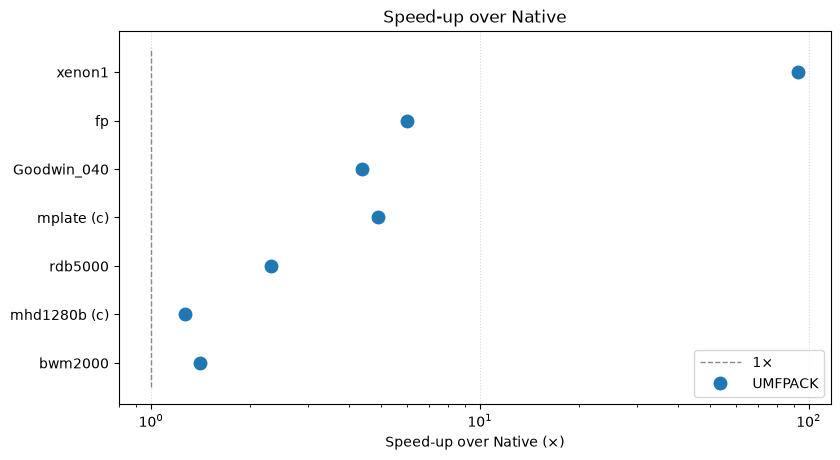
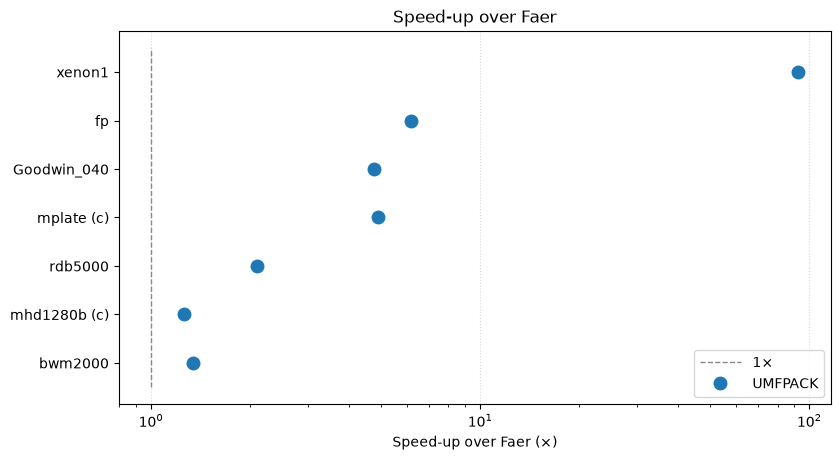
Update README benchmark results for Faer and bump version to 3.1.0

diff --git a/src/sparse/faer/solver.rs b/src/sparse/faer/solver.rs
@@ -12,10 +12,11 @@
 //!
 //! The counts are those of the Cholesky factor of `AᵀA`, so `ratio` grows with
 //! the average column density. A supernode is profitable once its columns are
-//! dense, and `LuMethod::auto()` uses `40.0` while `russell_sparse` passes `1.0`
-//! for the same choice: the two measure different problem classes, so the number
-//! is a caller-side decision rather than a constant of the kernel. It is a
-//! heuristic; `bench_sparse_lu` is the evidence.
+//! dense and its front size stays small; `LuMethod::auto()` uses `40.0`, while
+//! both `LuMethod::default()` and `russell_sparse` (from 5.5.0) default to
+//! `Simplicial` so large SuiteSparse fronts do not pay for the contribution-block-free
+//! supernodal update. The threshold is a caller-side decision rather than a
+//! constant of the kernel; `bench_sparse_lu` is the evidence.
 //!
 //! Neither method is the recommended one in general. Measured on a 192-dof
 //! lattice with three dofs per node (fill 2.96): the supernodal path factorizes

diff --git a/README.md b/README.md
@@ -216,22 +216,26 @@ headers to local modules lives in the module documentation under `src/sparse/amg
 
 ## Performance
 
-The direct solver of [`russell_sparse`](https://crates.io/crates/russell_sparse) — `Genie::Direct`
-from 5.0, `Native` in 4.x, which is where these numbers come from — is the sparse LU in this crate.
-The table below compares it with UMFPACK on the benchmark matrices that completed; the data is from
+The `Faer` solver of [`russell_sparse`](https://crates.io/crates/russell_sparse) — `Genie::Faer`
+from 5.5 (`Genie::Direct` in 5.0–5.4, `Native` in 4.x) — is the `sparse::faer` LU in this crate,
+using the simplicial path (`LuMethod::Simplicial`) by default. Note that `SupernodalLu` omits
+contribution blocks between supernodes and instead updates each front directly from the stored
+`L` and `U` columns, so large fronts are slower than simplicial (and slower than upstream `faer`).
+The table below compares the default simplicial path with UMFPACK on the SuiteSparse benchmark
+matrices that completed; the data is from
 [benchmark-russell](https://github.com/cpmech/benchmark-russell).
 
-| Matrix | NROW | NNZ | Direct | UMFPACK | UMFPACK / Direct |
+| Matrix | NROW | NNZ | Faer | UMFPACK | UMFPACK / Faer |
 | --- | ---: | ---: | ---: | ---: | ---: |
-| bwm2000 | 2,000 | 7,996 | 1.11 ms | 0.750 ms | 1.47× faster |
-| mhd1280b (c) | 1,280 | 22,778 | 0.717 ms | 0.383 ms | 1.87× faster |
-| rdb5000 | 5,000 | 29,600 | 39.0 ms | 13.6 ms | 2.88× faster |
-| mplate (c) | 5,962 | 142,190 | 3.13 s | 627 ms | 4.99× faster |
-| Goodwin_040 | 17,922 | 561,677 | 449 ms | 107 ms | 4.19× faster |
-| fp | 7,548 | 848,553 | 904 ms | 154 ms | 5.85× faster |
-| xenon1 | 48,600 | 1,181,120 | 55.2 s | 598 ms | 92× faster |
+| bwm2000 | 2,000 | 7,996 | 1.08 ms | 0.750 ms | 1.44× faster |
+| mhd1280b (c) | 1,280 | 22,778 | 0.740 ms | 0.383 ms | 1.93× faster |
+| rdb5000 | 5,000 | 29,600 | 35.2 ms | 13.6 ms | 2.59× faster |
+| mplate (c) | 5,962 | 142,190 | 3.12 s | 627 ms | 4.97× faster |
+| Goodwin_040 | 17,922 | 561,677 | 508 ms | 107 ms | 4.75× faster |
+| fp | 7,548 | 848,553 | 942 ms | 154 ms | 6.10× faster |
+| xenon1 | 48,600 | 1,181,120 | 55.0 s | 598 ms | 92× faster |
 
-`(c)` marks a complex-valued matrix; rows are sorted by NNZ. **NNZ is the matrix-file non-zero count.** Times are five-run averages from the benchmark on the benchmark machine (Arch Linux, Intel Core i9-13900KF).
+`(c)` marks a complex-valued matrix; rows are sorted by NNZ. **NNZ is the matrix-file non-zero count.** Times are outlier-free averages on the benchmark machine (Arch Linux, Intel Core i9-13900KF): 5 runs for UMFPACK, and for Faer 3 runs on the fast/medium matrices (`<= 30 s`) and 1 run on `xenon1`.
 
 The kernel underneath matters most where the matrices are small, because the work per call stops
 being the arithmetic. Two products carry an element-level computation, and both were measured on
@@ -252,13 +256,13 @@ seventy-two multiplications — and two of those per Gauss point made a `gemlab`
 138 µs. At 60 ns the same integral is 1.05 µs. Large products keep their throughput (the panels are
 now sized by the block actually used); the small end is where the change is.
 
-That direct solver is fast on small systems: up to about 30,000 non-zeros it takes at most a few tens of milliseconds. It becomes very slow for matrices with more than **1 million** non-zeros: the `xenon1` case (NROW=48,600, 1,181,120 non-zeros) takes **55 s**, and the next real case (`twotone`, NROW=120,750, 1,224,224 non-zeros) did not finish within the 3-minute probe. For matrices with more than **1 million** non-zeros, expect **nearly a minute** or more.
+The Faer solver is fast on small systems: up to about 30,000 non-zeros it takes at most a few tens of milliseconds. It becomes very slow for matrices with more than **1 million** non-zeros: the `xenon1` case (NROW=48,600, 1,181,120 non-zeros) takes **55.0 s**, and matrices above 1.2 million pattern entries (starting with `twotone`, NROW=120,750, 1,224,224 non-zeros) are skipped by default in the benchmark harness. For matrices with more than **1 million** non-zeros, expect **nearly a minute** or more.
 
-The threshold is not a function of NNZ alone. The complex `mplate` (NROW=5,962, 142,190 non-zeros) takes **3.13 s**, and `RFdevice` (NROW=74,104, 365,580 non-zeros) did not finish in **15 minutes**; sparsity structure and numerical type matter as much as the non-zero count.
+The threshold is not a function of NNZ alone. The complex `mplate` (NROW=5,962, 142,190 non-zeros) takes **3.12 s**, and `RFdevice` (NROW=74,104, 365,580 non-zeros) did not finish within the **3-minute** probe; sparsity structure and numerical type matter as much as the non-zero count.
 
-UMFPACK is faster than the direct solver on every matrix in the table; the gap grows with the fill-in, reaching **92×** on `xenon1`. The figure below shows the same ratios on a log scale (the dashed line is 1×):
+UMFPACK is faster than the Faer solver on every matrix in the table; the gap grows with the fill-in, reaching **92×** on `xenon1`. The figure below shows the same ratios on a log scale (the dashed line is 1×):
 
-![UMFPACK speed-up over the direct solver](docs/plot_speedup_umfpack.png)
+![UMFPACK speed-up over the Faer solver](docs/plot_speedup_umfpack.png)
 
 ### Iterative solvers
 
@@ -273,20 +277,20 @@ iteration converge.
 Where they do converge they earn their place, because the failure mode they cover is the one the
 direct backends cannot:
 
-| matrix | UMFPACK | MUMPS | BiCGStab | GMRES | Direct |
+| matrix | UMFPACK | MUMPS | BiCGStab | GMRES | Faer |
 | --- | ---: | ---: | ---: | ---: | ---: |
-| atmosmodd | out of memory | 46.2 s | **7.78 s** (139 it) | 14.5 s (326 it) | — |
-| atmosmodl | out of memory | 40.9 s | **5.70 s** (84 it) | 7.78 s (147 it) | — |
-| rajat31 | out of memory | 16.0 s | 38.1 s (41 it) | — | — |
-| xenon1 | 595 ms | — | 2.73 s (228 it) | 3.00 s (460 it) | 55.2 s |
+| atmosmodd | out of memory | 46.0 s | **7.78 s** (139 it) | 14.5 s (326 it) | — |
+| atmosmodl | out of memory | 40.9 s | **5.75 s** (84 it) | 7.78 s (147 it) | — |
+| rajat31 | out of memory | 16.0 s | 38.0 s (41 it) | out of memory | — |
+| xenon1 | 598 ms | 365 ms | 2.73 s (228 it) | 2.94 s (460 it) | 55.0 s |
 | memchip | 26.3 s | 8.05 s | 21.3 s (77 it) | 8.06 s (37 it) | — |
-| `pmsim-hex8-27` (157 dofs) | 1.88 ms | 7.66 ms | 0.85 ms (15 it) | **0.76 ms** (21 it) | 934 µs |
+| `pmsim-hex8-27` (157 dofs) | 736 µs | 7.66 ms | 818 µs (15 it) | **736 µs** (21 it) | 863 µs |
 
 Three readings: on the matrices whose factorization does not fit in memory, the iterative path is the
-only pure-Rust option and it finishes in seconds; on `xenon1` it is twenty times the direct solver and
-five times slower than UMFPACK, which is the one to use when it can factor the matrix; and on the
-157-dof system a finite-element code factors every step, the Krylov iteration is as fast as the direct
-solve and there is nothing to gain.
+only pure-Rust option and it finishes in seconds; on `xenon1` it is twenty times faster than the Faer
+solver and five times slower than UMFPACK, which is the one to use when it can factor the matrix; and
+on the 157-dof system a finite-element code factors every step, the Krylov iteration is as fast as the
+Faer solve and there is nothing to gain.
 
 Two properties make the hierarchy usable on real matrices, both measured here: a row with no diagonal
 entry — legitimate in a structural matrix — gets a unit diagonal in the hierarchy's own operators
